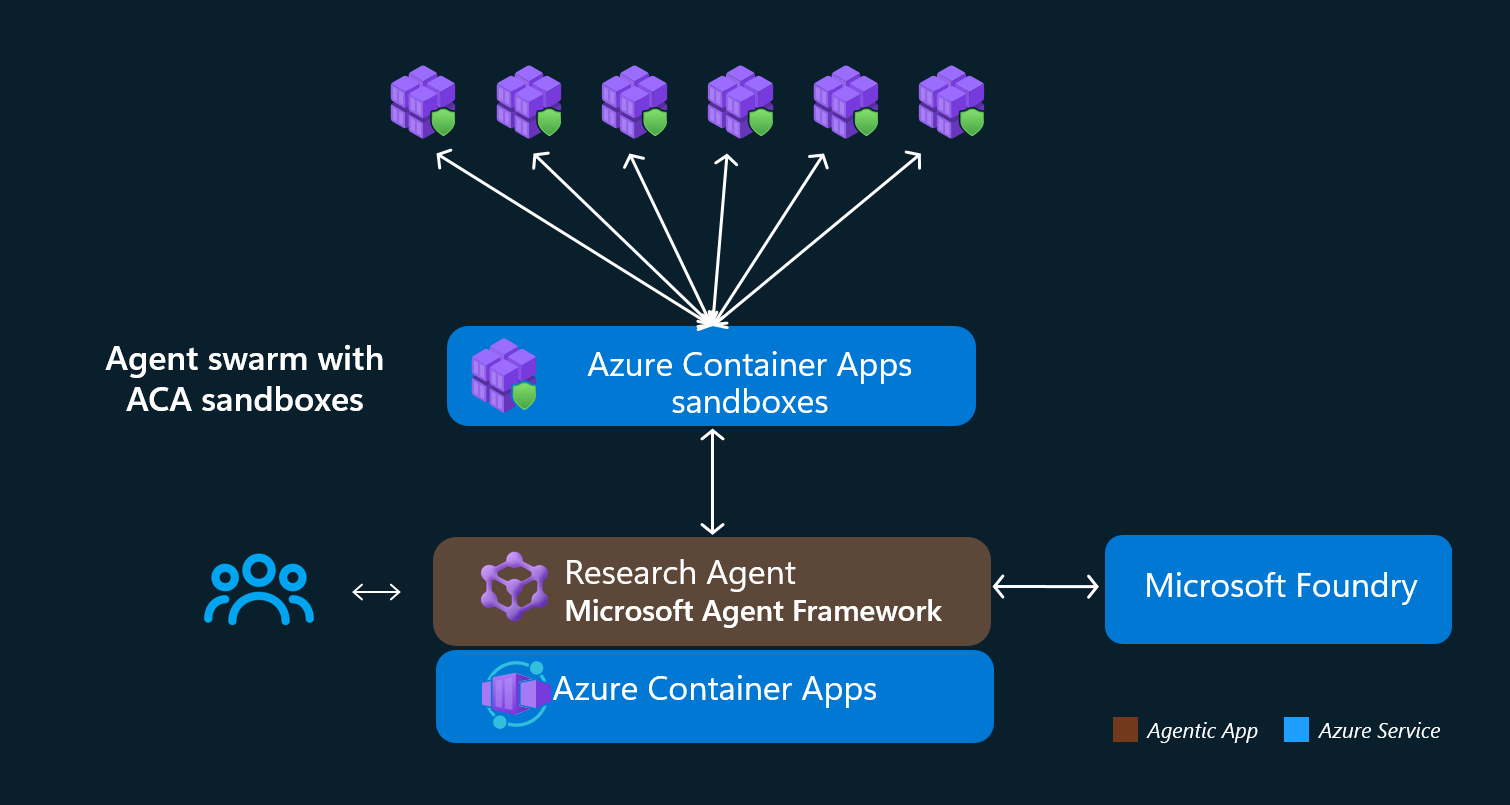
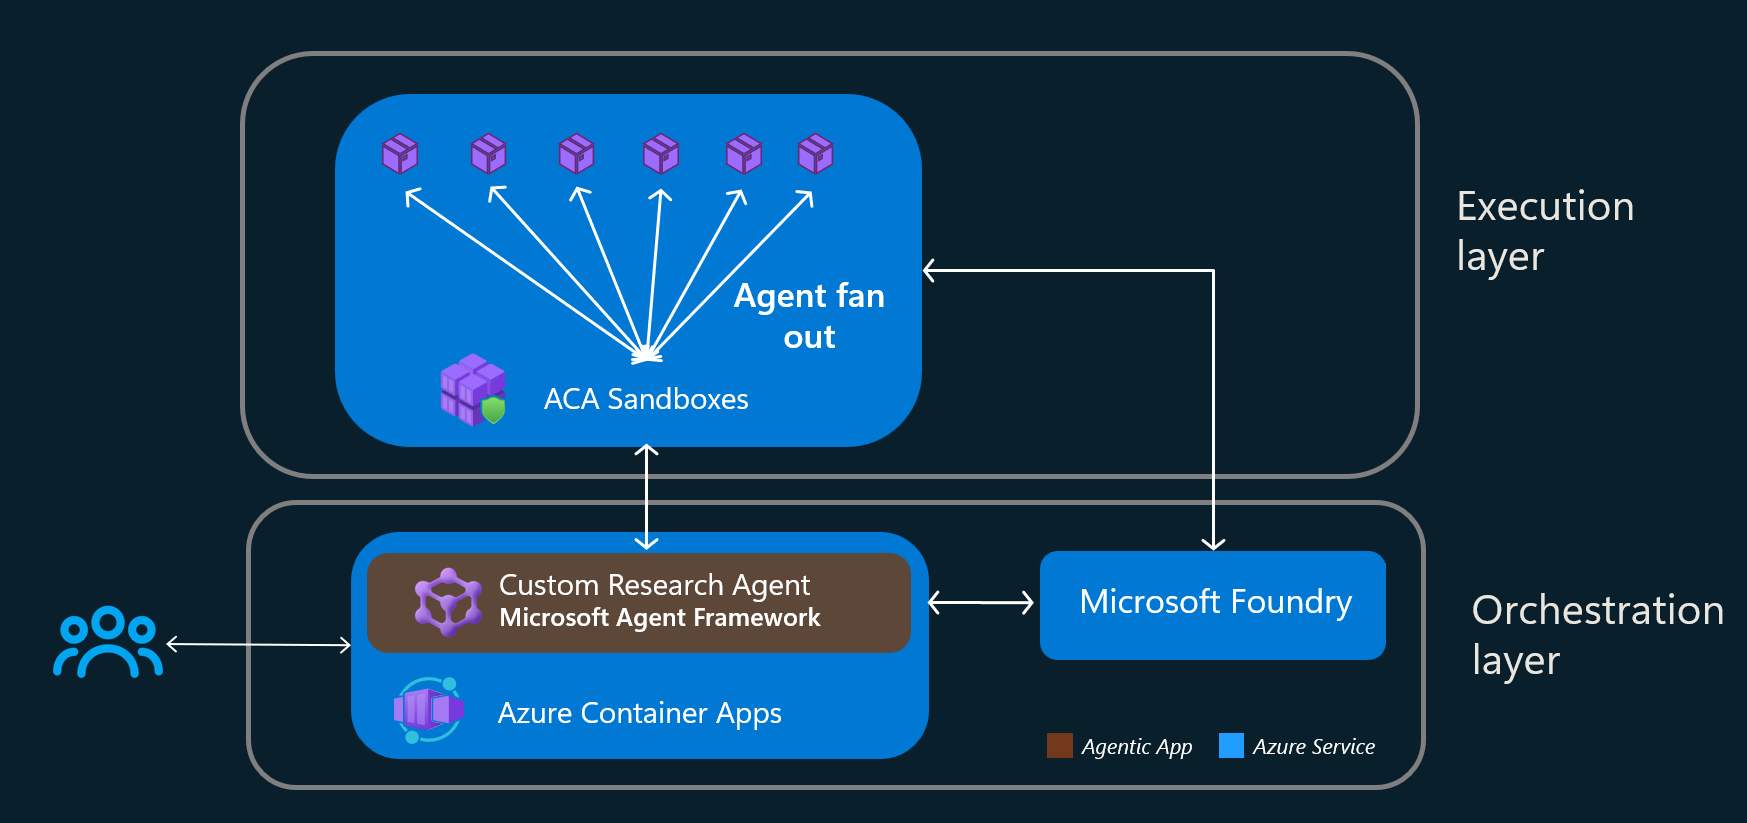
Update architecture diagram and trim README

diff --git a/README.md b/README.md
@@ -28,8 +28,6 @@ Sandbox telemetry egress is derived from `APPLICATIONINSIGHTS_CONNECTION_STRING`
 
 Prerequisites: [Azure CLI](https://learn.microsoft.com/cli/azure/install-azure-cli) (`az login`), the [Azure Developer CLI](https://learn.microsoft.com/azure/developer/azure-developer-cli/install-azd) (`azd`), Docker, and a subscription with quota for Azure OpenAI (gpt-5-mini), Azure Container Apps, and Azure Container Registry.
 
-The orchestrator pins `azure-containerapps-sandbox==0.1.0b4` in [requirements.txt](orchestrator/requirements.txt) so local installs and container builds use the same SDK release.
-
 ```bash
 azd up
 ```
